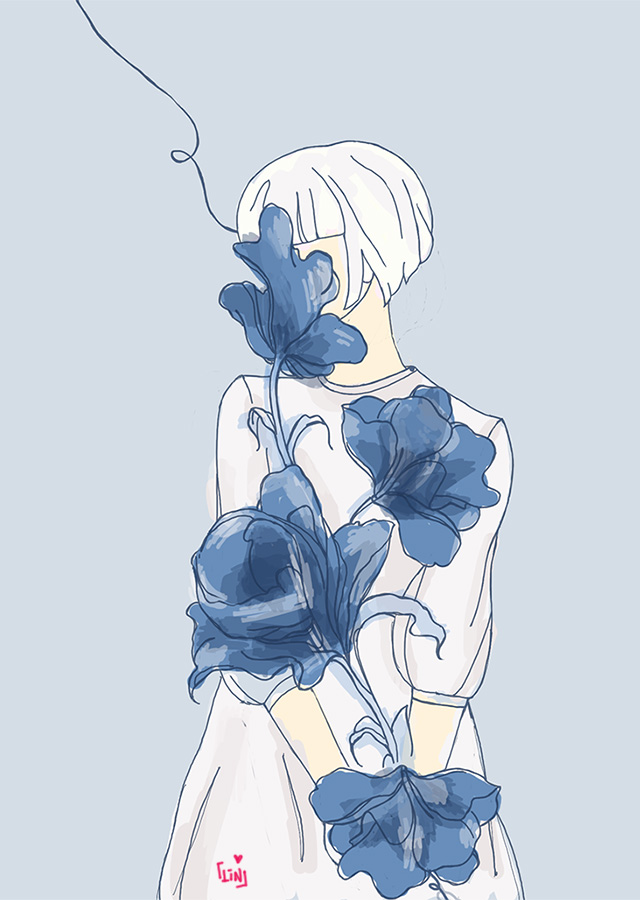
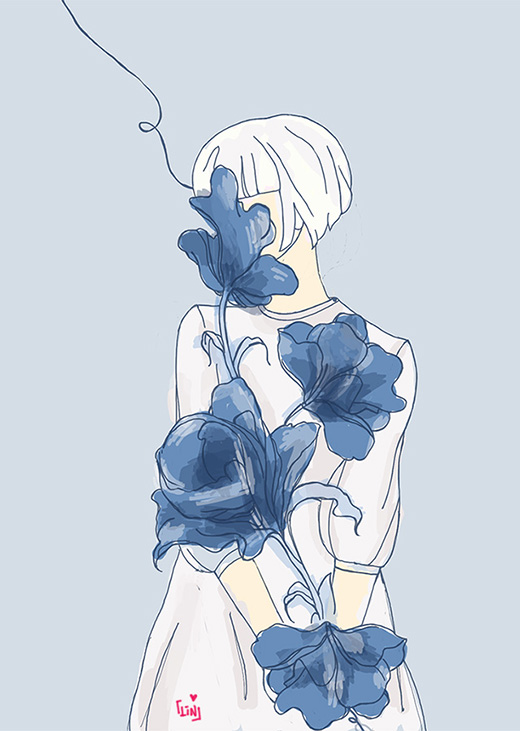
image size update

diff --git a/index.html b/index.html
@@ -136,6 +136,15 @@
       <a class="icon" href="https://dribbble.com/linafab" target="_blank"><img src="img/dribbble.png"></img></a></p>
     </div>
 
+    <div class="Lin-left">
+
+      <!-- Copyright -->
+        <h2 class="title">
+          &copy; Lin Wang 2018. All rights reserved.
+        </h2>
+
+    </div>
+
   </div>
   <div class="lin-right-container">
     <div class="lin-right">
